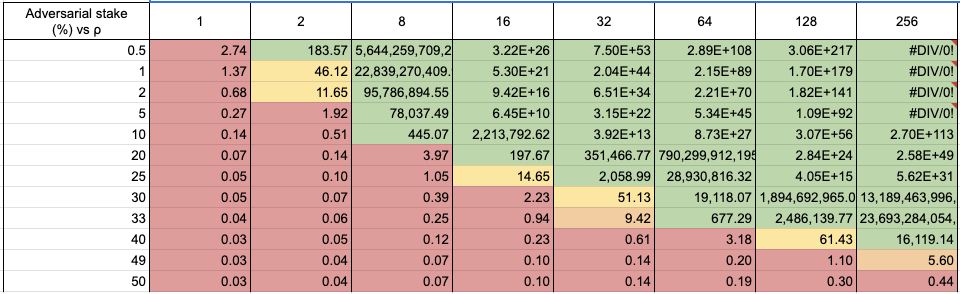
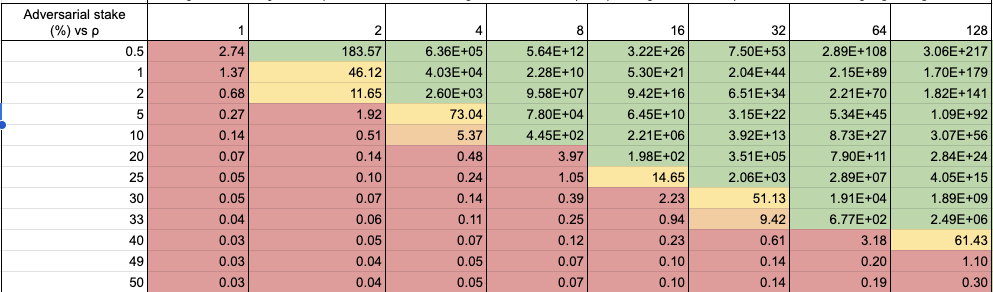
updated

diff --git a/CPS/Readme.md b/CPS/Readme.md
@@ -697,7 +697,7 @@ g = 2^\rho
 ```
 where **$`\rho`$** represents the **grinding depth**, i.e., the number of distinct $`\eta`$ nonces they can evaluate within $`w_O`$.  
 
-### 3.3 Entry Ticket Cost: Acquiring Stake to Play the Lottery  
+### 3.3 Entry Ticket: Acquiring Stake to Play the Lottery  
 
 Before an adversary can execute a grinding attack, they must first **acquire enough stake**, akin to **buying an entry ticket** to participate in a **lottery**.  
 In this case, the **lottery** is the leader election process, where the probability of winning a slot—and thus influencing the $`\eta`$ nonce—is directly proportional to the stake held.  
@@ -709,11 +709,11 @@ Thus, the **first cost** of a grinding attack is **not computational but economi
 
 To estimate the cost of these **entry tickets**, we address the following question:  
 
-> **How much grinding depth $`\rho`$ can an adversary achieve with a given percentage of adversarial stake, ensuring a reasonable probability—such as at least one successful grinding opportunity within 10 years** of continuous **epoch-by-epoch execution in Cardano**, where each epoch lasts **5 days**?  
+> **How much grinding depth $`\rho`$ can an adversary achieve with a given percentage of adversarial stake, ensuring a reasonable probability—such as at least one successful grinding opportunity within 5 years** of continuous **epoch-by-epoch execution in Cardano**, where each epoch lasts **5 days**?  
 >  
-> Specifically, for a given percentage of adversarial stake, we seek the **maximum $`\rho`$** for which the probability of obtaining an A-heavy segment $`w_O`$ is **at least once over 10 years**, meaning at least one occurrence within **3,650 epochs**.  
+> Specifically, for a given percentage of adversarial stake, we seek the **maximum $`\rho`$** for which the probability of obtaining an A-heavy segment $`w_O`$ is **at least once over 5 years**, meaning at least one occurrence within **1,825 epochs**.  
 >  
-> **N.B.:** A 10-year period is long enough to encompass a potential **technological revolution cycle**, during which advancements in cryptographic research or computing power could significantly impact feasibility. It is also a sufficient timeframe for the **Cardano community** to introduce a new version of Ouroboros that may **revisit and fully mitigate this issue**.
+> **N.B.:** A 5-year period is long enough to encompass a potential **technological revolution cycle**, during which advancements in cryptographic research or computing power could significantly impact feasibility. It is also a sufficient timeframe for the **Cardano community** to introduce a new version of Ouroboros that may **revisit and fully mitigate this issue**.
 
 ---
 #### The formula 
@@ -735,21 +735,27 @@ where:
 
 The details of the calculations underlying this table can be found in the following Google Spreadsheet: [Details of Calculations](https://docs.google.com/spreadsheets/d/1DGG4tXTngc2Zu5_IMlWsPoARksgBEMbTCyqBAgKHe7E/edit?gid=0#gid=0).
 
-For example, with **5% adversarial stake**, it would take **184 years** for an adversary to obtain a single adversarial block at the critical juncture—an extremely unlikely event.  
+For example, with **5% adversarial stake**, it would take **73 years** for an adversary to obtain 2 adversarial blocks at the critical juncture—an extremely unlikely event.  
 
 ####  The Results
 
-![alt text](image-19.png)
+![alt text](image-20.png)
 
 **N.B** : This analysis does not account for recursion in addition to the forking and self-mixing strategy, so the curve should actually be even steeper than in the graph above. 
 
-We conclude that randomness manipulation within Ouroboros seems to become critical above a **33% adversarial stake**, with its impact increasingly dictated by the adversary’s computational ability to compute a $`2^ρ`$ leader election distribution set. This is the specific issue we aim to highlight in this CPS.  
+We observe that when the **adversarial stake exceeds 33%**, the adversary gains a significantly higher probability of winning the lottery, to the extent that its influence becomes primarily constrained by its computational capacity to generate and evaluate a $`2^ρ`$-sized leader election distribution set.
+
+Also, note that while we have focused on the cost aspect of this entry ticket, the adversarial stake itself represents an **investment**. This is a prime example of game theory: with a stake exceeding 33%, as of March 1, 2025, we are discussing an investment of more than **7.19 B₳**, a substantial sum. Attacking Ouroboros would not only compromise the system's integrity but also erode community trust, ultimately devaluing the very investment the adversary is attempting to exploit.
+
+If grinding attacks become visible to the community, adversarial SPOs risk being identified and facing significant consequences, such as reputational damage, delegator withdrawals, or even protocol-level countermeasures. 
+
+> This underscores the importance of both **countermeasures against grinding** and **robust monitoring tools** to **detect and deter** such attacks. Moreover, enhancing **transparency** in **leader election** and **randomness generation mechanisms** can serve as a **powerful deterrent**, ensuring that any attempts to **manipulate the system** are not only **costly** but also **highly visible** to the community.
 
 ### 3.4 Cost of a Grinding Attempt
 
 
 
-### 3.5 Cost of a Grinding Attempt
+
 
 ### 3.3 Grinding Power Computational Feasibility
 
